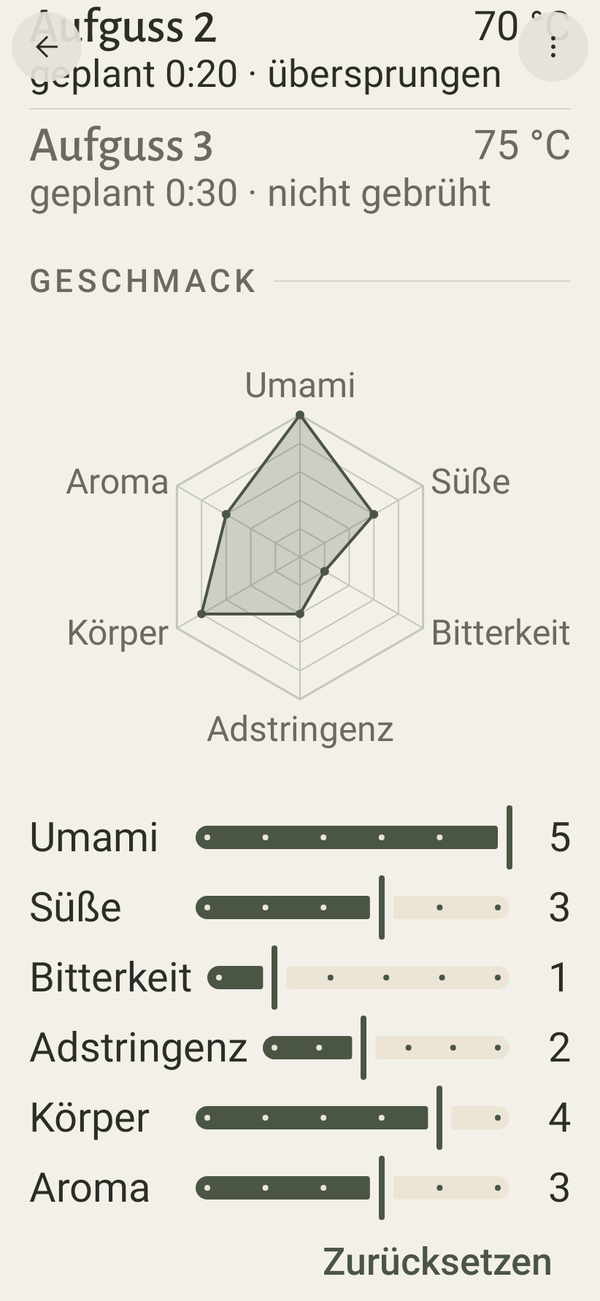
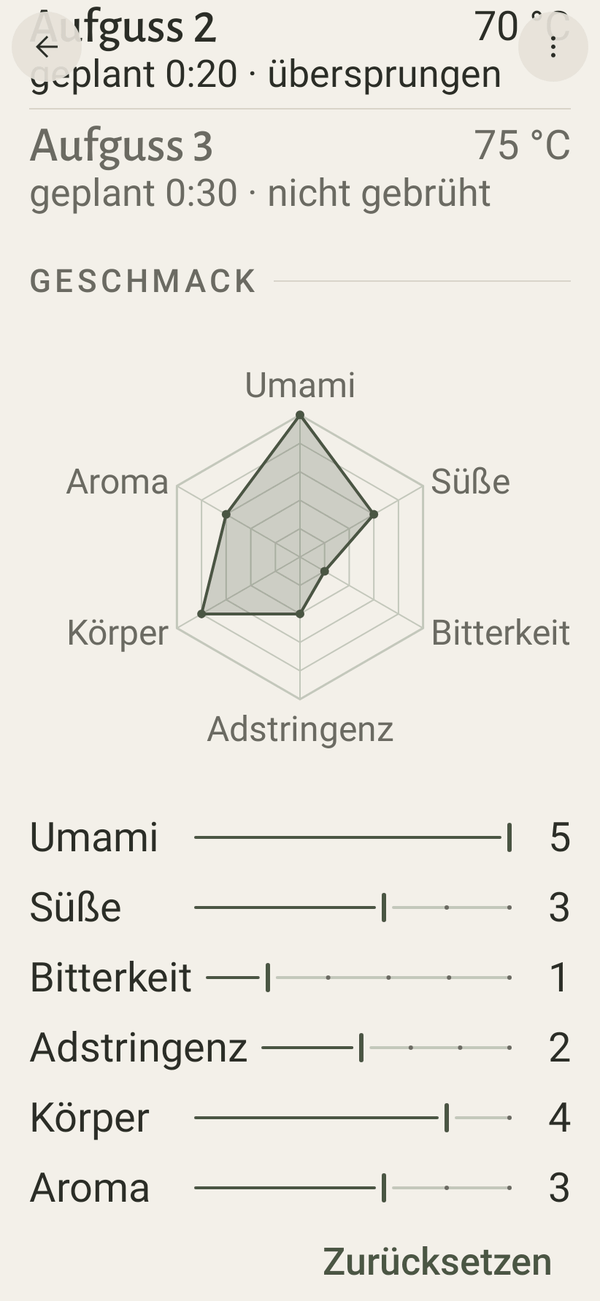
docs: v0.6.0 review renders with the slim slider (D-113, #237)
The eight taste renders are replaced; Lautstaerke and the component sheet
are added; the README says what the PO judges now.

Claude-Session: https://claude.ai/code/session_01F2Tx8VnhtWok2kbeKQUA6p

Changed region(s): [[0.33, 0.6149, 0.87, 0.9531], [0.75, 0.7994, 0.78, 0.8301], [0.72, 0.7379, 0.75, 0.7686]]

diff --git a/docs/design/review/v0.6.0/README.md b/docs/design/review/v0.6.0/README.md
@@ -1,6 +1,6 @@
-# v0.6.0 design review (with `v0.6.0-rc.1`, #233)
+# v0.6.0 design review (with `v0.6.0-rc.1`, #233; the slim slider after it, D-113, #237)
 
-These are Roborazzi goldens of the screens v0.6.0 added or changed (`src/test/screenshots/` of `feature:journal` and `feature:collection`), scaled to 600 px wide and palette-optimised, as for v0.5.1.
+These are Roborazzi goldens of the screens v0.6.0 added or changed (`src/test/screenshots/` of `feature:journal`, `feature:collection`, `feature:settings` and `core:designsystem`), scaled to 600 px wide and palette-optimised, as for v0.5.1.
 - They use synthetic sample teas and placeholder photos only (flat tints, the app's own illustrations), no Tee-Kontor content (D-016).
 - Re-record the goldens with `./gradlew recordRoborazziDebug`.
 
@@ -21,12 +21,26 @@ Naming:
 | **Session editor** (#230; SCR-17, JRN-11) | `journal/` | `SessionEditor_untouched`: date, time, vessel, leaf, water, the steps with *Zeit* and the °C stepper, skipped and never brewed steps greyed; `SessionEditor_stock_line`: „Dein Vorrat wird um 2 g angepasst." under a changed leaf; `SessionEditor_error`: the inline messages. |
 | **Journal** (#231; SCR-15, JRN-08, JRN-09) | `journal/` | `Journal_withSessions`: „★ 4,5" in the rows, the search field and the filter icon; `Journal_searchActive`; `Journal_filterSheet`: *Tee*, *Bewertung*, *Mit Notizen*; `Journal_filterChips`: active filters as chips under the search; `Journal_noMatch`: „Keine Sitzung passt zu deiner Suche." with *Filter zurücksetzen*; `Journal_empty`: the A6 illustration. |
 | **Tea screens** (#232; SCR-08, SCR-09, TEA-08, TEA-11, TEA-13) | `collection/` | `TeaDetail_rating`: „★ 4,5 (12)" under the names; `TeaDetail_taste`: GESCHMACK with the average radar and the top descriptors; `TeaDetail_recent`: LETZTE SITZUNGEN with *Alle anzeigen*; `Collection_myTeas`: the average in the rows; `Collection_sortMenu`: the order *Bewertung*; `Collection_myTeas_short_font2x`. |
+| **The slim slider** (#237; D-113, 03 §3.8) | `journal/`, `settings/`, `components/` | `SessionPage_tasteTwoAxes`, `SessionPage_tasteAllSix`: the six taste sliders with the slim pin; an unset axis shows the short grey mark; `settings/Settings_volume`: *Lautstärke* with the same pin; `components/SlimSlider`: four rows, a value of 3, a value of 0, an unset axis, and the pin while pressed (4 × 24 dp). |
 
 Not rendered (behaviour, checked by tests and on the phone, 09 §4 „v0.6.0"): the stars' tap cycle (4,0 → 3,5 → none) and the sheet's 10 s restarting with each tap; the notes saving themselves; the radar easing in above the sliders when the third axis is set; the photo picker and the hero's swipe; accepting the recipe offer; the editor's effect on stock and date; the search matching notes and descriptors; *Alle anzeigen* opening the Journal filtered to the tea; TalkBack's readings.
 
-## Points to judge
+## To judge now: the slim slider (D-113)
 
-Collected while building (D-112's build notes) and in the reviews. None is decided; an answer goes through the process (grilling → spec → ticket).
+The PO tested `v0.6.0-rc.1` on 2026-11-12 and approved everything except the taste slider's handle (D-113). The slim pin (option B of four drawn designs) is built for the six taste sliders and for *Lautstärke*. There is no rc.2: the PO's OK on these renders starts the merge and the final release.
+
+Look at:
+- `journal/SessionPage_tasteTwoAxes_light.png` and `_dark.png`: two set axes (4 and 2) and four unset ones.
+- `journal/SessionPage_tasteAllSix_light.png` and `_dark.png`: six set axes under the radar.
+- `journal/SessionPage_tasteTwoAxes_light_font2x.png`: font scale 2.0.
+- `settings/Settings_volume_light.png` and `_dark.png`: *Lautstärke* at 60 %.
+- `components/SlimSlider_light.png` and `_dark.png`: the states side by side, the last row pressed.
+
+As specified (03 §3.8): the pin is 3 × 20 dp (4 × 24 dp while pressed or dragged), the line 2 dp with a 4 dp gap on each side of the pin, stop dots only beyond the pin, an unset axis a short grey mark of 1.5 × 10 dp. Not visible in a render: the pin growing under the finger, and the drag feel.
+
+## Points collected for rc.1 (record)
+
+Collected while building (D-112's build notes) and in the reviews, and shown to the PO with rc.1. The PO's answer of 2026-11-12: everything looks fine and works as expected, except the slider's handle (above). The GESCHMACK questions were answered one by one in D-113: TalkBack on an unset slider and the single-axis unset stay as built, the radar stays above the sliders.
 
 **„Gespeichert" sheet** (`Journal_savedSheet*`)
 - The empty stars are faint in the dark theme.
